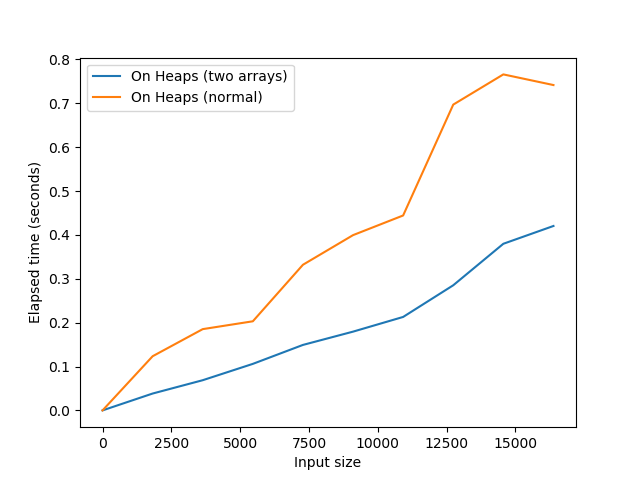
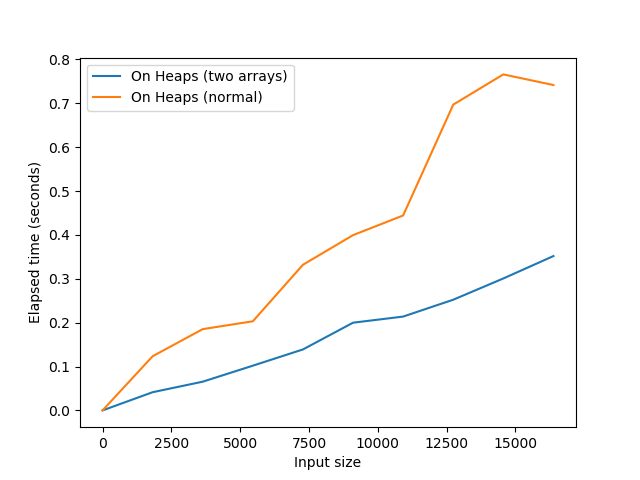
Trying to add rev_pos; still need to fix bug when adding new node after extracting the min;

diff --git a/03_heaps/src/binheap.c b/03_heaps/src/binheap.c
@@ -11,7 +11,10 @@
 
 // (H)->A = base of the address
 // node*key_size
-#define ADDR(H, node) ((H)->A + ((H)->key_pos[node]) * (H)->key_size)
+#define ADDR(H, node) ((H)->A + (node) * (H)->key_size)
+#define ADDR_KEY_POS(H, position) ((H)->key_pos+(position))
+#define ADDR_REV_POS(H, position) ((H)->rev_pos+(position))
+
 #define INDEX_OF(H, addr) (((addr) - ((H)->A)) / (H)->key_size)
 
 int is_heap_empty(const binheap_type *H)
@@ -26,7 +29,7 @@ const void *min_value(const binheap_type *H)
         return NULL;
     }
     // the minimum is stored in the root aka A[0]
-    return ADDR(H, 0);
+    return ADDR(H, H->key_pos[0]);
 }
 
 void swap_keys(binheap_type *H, unsigned int index_a, unsigned int index_b)
@@ -41,9 +44,19 @@ void swap_keys(binheap_type *H, unsigned int index_a, unsigned int index_b)
 
     free(temp);*/
     //XOR swap
-    H->key_pos[index_a] ^= H->key_pos[index_b];
-    H->key_pos[index_b] ^= H->key_pos[index_a];
-    H->key_pos[index_a] ^= H->key_pos[index_b];
+    size_t *p_a = ADDR_KEY_POS(H, index_a);
+	size_t *p_b = ADDR_KEY_POS(H, index_b);
+
+    *p_a ^= *p_b;
+    *p_b ^= *p_a;
+    *p_a ^= *p_b;
+
+    size_t *r_a = ADDR_REV_POS(H, *p_a);
+	size_t *r_b = ADDR_REV_POS(H, *p_b);
+    
+    *r_a ^= *r_b;
+    *r_b ^= *r_a;
+    *r_a ^= *r_b;
 }
 
 void heapify(binheap_type *H, unsigned int node)
@@ -59,7 +72,7 @@ void heapify(binheap_type *H, unsigned int node)
         child = RIGHT_CHILD(node);
 
         if (VALID_NODE(H, child) &&
-            H->leq(ADDR(H, child), ADDR(H, destination_node))
+            H->leq(ADDR(H, H->key_pos[child]), ADDR(H, H->key_pos[destination_node]))
             //H->leq(ADDR(H, child), ADDR(H, node))
             )
         {
@@ -69,7 +82,7 @@ void heapify(binheap_type *H, unsigned int node)
         child = LEFT_CHILD(node);
 
         if (VALID_NODE(H, child) &&
-            H->leq(ADDR(H, child), ADDR(H, destination_node))
+            H->leq(ADDR(H, H->key_pos[child]), ADDR(H, H->key_pos[destination_node]))
             //H->leq(ADDR(H, child), ADDR(H, node))
             )
         {
@@ -95,13 +108,11 @@ const void *extract_min(binheap_type *H)
     //and the rightmost leaf of the last level A[num_of_elem-1]
     swap_keys(H, 0, H->num_of_elem - 1);
     //deleting the rightmost leaf of the last level
-    //A[num_of_elem-1]
     H->num_of_elem--;
     //we need to restore the heap porperty
     heapify(H, 0);
 
-    //return ADDR(H, H->num_of_elem+1);
-    return ADDR(H, H->num_of_elem);
+    return ADDR(H, H->key_pos[H->num_of_elem]);
 }
 
 const void *find_max(void *A, unsigned int n_of_elem,
@@ -133,11 +144,24 @@ binheap_type *build_heap(void *A,
     binheap_type *H = (binheap_type *)malloc(sizeof(binheap_type));
     H->A = A;
     H->num_of_elem = num_of_elem;
+    H->num_of_elem = num_of_elem;
     H->max_size = max_size;
     H->key_size = key_size;
     H->leq = leq;
     H->max_order_value = malloc(key_size);
-    H->key_pos = (unsigned int *)malloc(sizeof(unsigned int) * max_size);
+    H->key_pos = (size_t *)malloc(sizeof(size_t) * max_size);
+
+    for (size_t i = 0; i < num_of_elem; i++)
+    {
+        H->key_pos[i] = i;
+    }
+
+    H->rev_pos = (size_t *) malloc(sizeof(size_t) * max_size);
+
+    for (size_t i = 0; i < max_size; i++)
+    {
+        H->rev_pos[i] = i;
+    }
 
     if (num_of_elem == 0)
     {
@@ -151,10 +175,6 @@ binheap_type *build_heap(void *A,
 
     memcpy(H->max_order_value, value, key_size);
 
-    for (unsigned int i = 0; i < num_of_elem; i++)
-    {
-        H->key_pos[i] = i;
-    }
 
     //from the second lowest upper low up to the root
     for (unsigned int i = num_of_elem / 2; i > 0; i--)
@@ -169,55 +189,69 @@ binheap_type *build_heap(void *A,
 void delete_heap(binheap_type *H)
 {
     free(H->max_order_value);
+    free(H->key_pos);
+    free(H->rev_pos);
     free(H);
 }
 
-const void *decrease_key(binheap_type *H, unsigned int key, const void *value)
+//const void *decrease_key(binheap_type *H, unsigned int key, const void *value)
+const void *decrease_key(binheap_type *H, void* node, const void *value)
 {
-    void *node_addr = ADDR(H, key);
+    unsigned int node_index = INDEX_OF(H, node);
+    size_t* p_node_key = ADDR_KEY_POS(H, node_index);
 
     //if node not belong to H or *value->*node return NULL
-    if (!VALID_NODE(H, key) || !(H->leq(value, node_addr)))
+    if (!VALID_NODE(H, node_index) || !(H->leq(value, ADDR(H, *p_node_key))))
     {
         return NULL;
     }
 
-    memcpy(node_addr, value, H->key_size);
+    memcpy(ADDR(H, *p_node_key), value, H->key_size);
 
-    unsigned int parent = PARENT(key);
+    unsigned int parent_index = PARENT(node_index);
+    size_t *p_node_parent = ADDR_KEY_POS(H, parent_index);
 
-    while ((key != 0) && (!H->leq(ADDR(H, PARENT(key)), node_addr)))
+    while ((node_index != 0) && (!H->leq(ADDR(H, *p_node_parent), ADDR(H, *p_node_key))))
     {
 
-        parent = PARENT(key);
-        swap_keys(H, parent, key);
+        //parent = PARENT(key);
+        swap_keys(H, parent_index, node_index);
 
-        key = parent;
-        node_addr = ADDR(H, key);
+        node_index = parent_index;
+        p_node_key = p_node_parent;
+
+        parent_index = PARENT(node_index);
+        p_node_parent = ADDR_KEY_POS(H, parent_index);
     }
 
-    return ADDR(H, key);
+    return ADDR(H, *p_node_key);
 }
 
 const void *insert_value(binheap_type *H, const void *value)
 {
-    if (H->max_size == H->num_of_elem)
+    if (H->max_size == H->num_of_elem_A)
     {
         return NULL;
     }
 
-    if (!H->leq(value, H->max_order_value) || H->num_of_elem == 0)
+    if (!H->leq(value, H->max_order_value) || H->num_of_elem_A == 0)
     {
         memcpy(H->max_order_value, value, H->key_size);
     }
 
-    H->key_pos[H->num_of_elem] = H->num_of_elem;
+    //H->key_pos[H->num_of_elem] = H->num_of_elem;
     // num_of_elem is the index of the location past the last one
-    void *new_node_addr = ADDR(H, H->num_of_elem);
+    void *new_node_addr = ADDR(H, H->num_of_elem_A);
     memcpy(new_node_addr, H->max_order_value, H->key_size);
+    size_t * new_node =ADDR_KEY_POS(H, H->num_of_elem);
+	*new_node = H->num_of_elem_A;
+    //*ADDR_REV_POS(H, H->num_of_elem/*_A*/) = H->num_of_elem;
+    H->rev_pos[H->num_of_elem_A] = H->num_of_elem;
+
+    H->num_of_elem_A++;
     H->num_of_elem++;
 
-    return decrease_key(H, H->num_of_elem - 1, value);
+    return decrease_key(H, new_node_addr, value);
 }
 
 void print_heap(const binheap_type *H,
@@ -240,7 +274,7 @@ void print_heap(const binheap_type *H,
             printf("\t");
         }
 
-        key_printer(ADDR(H, node));
+        key_printer(ADDR(H, H->key_pos[node]));
 
         node++;
     }

diff --git a/03_heaps/include/binheap.h b/03_heaps/include/binheap.h
@@ -12,8 +12,10 @@
  */
 typedef struct {
     void *A;
-    unsigned int* key_pos;
-    unsigned int num_of_elem; // num of elem stored
+    size_t* key_pos;
+    size_t* rev_pos;
+    unsigned int num_of_elem; // heap size
+    unsigned int num_of_elem_A; // num of elements in A
     unsigned int max_size; //max # of nodes
     size_t key_size; // size of the key type
     total_order_type leq; 
@@ -112,8 +114,8 @@ void delete_heap(binheap_type *H);
  *         either the new value is greater than of equal to the old key
  *         value or the node does not belong to the H, NULL is returned.
  **********************************************************************/
-const void *decrease_key(binheap_type *H, unsigned int key, const void *value);
-
+//const void *decrease_key(binheap_type *H, unsigned int key, const void *value);
+const void *decrease_key(binheap_type *H, void* node, const void *value);
 /**********************************************************************
  * Insert a value in the heap.
  *
